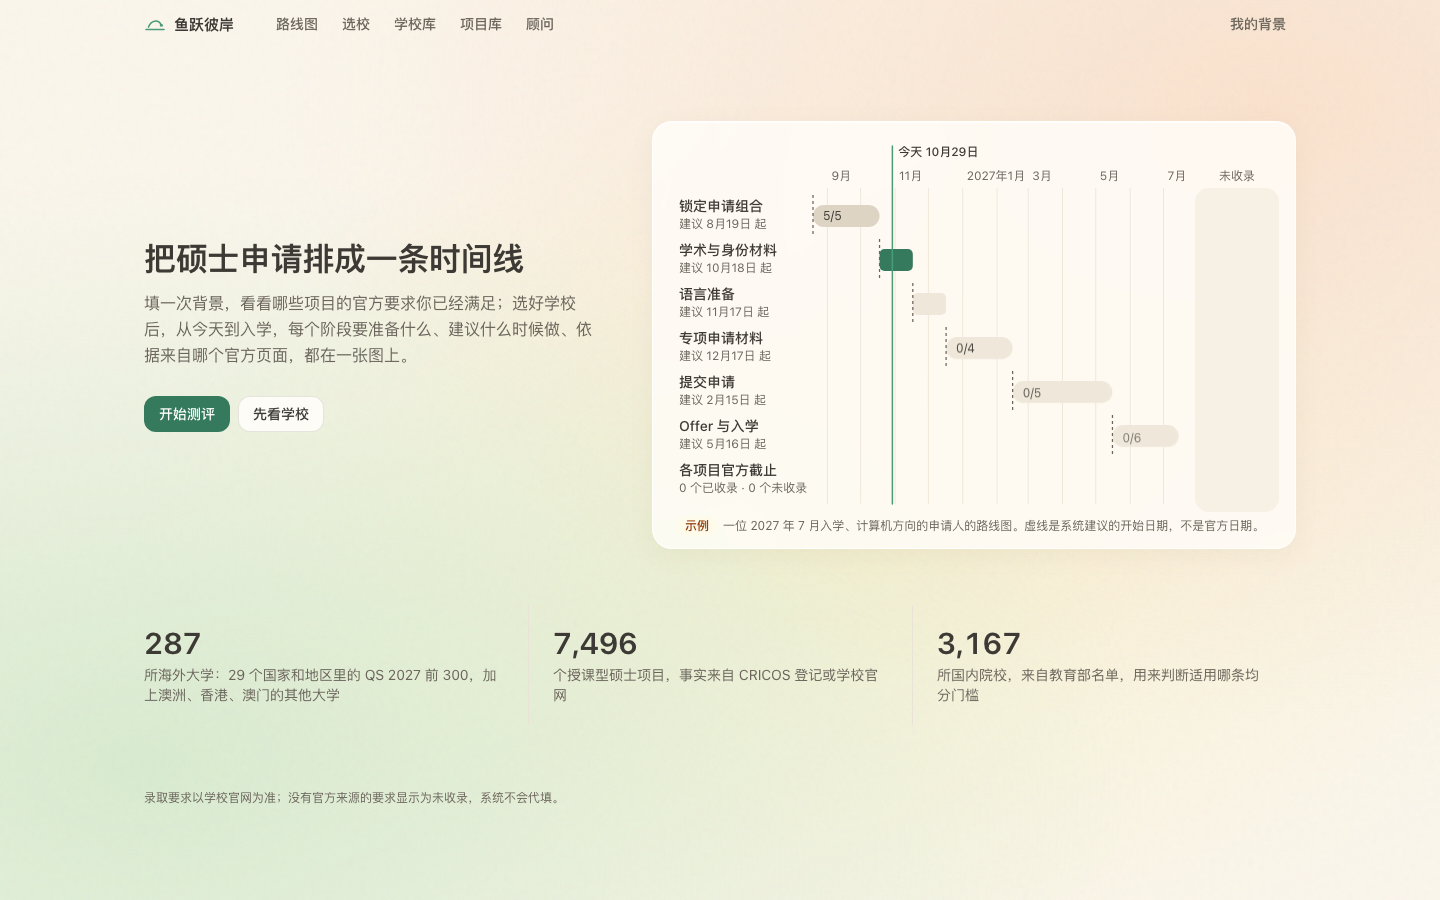
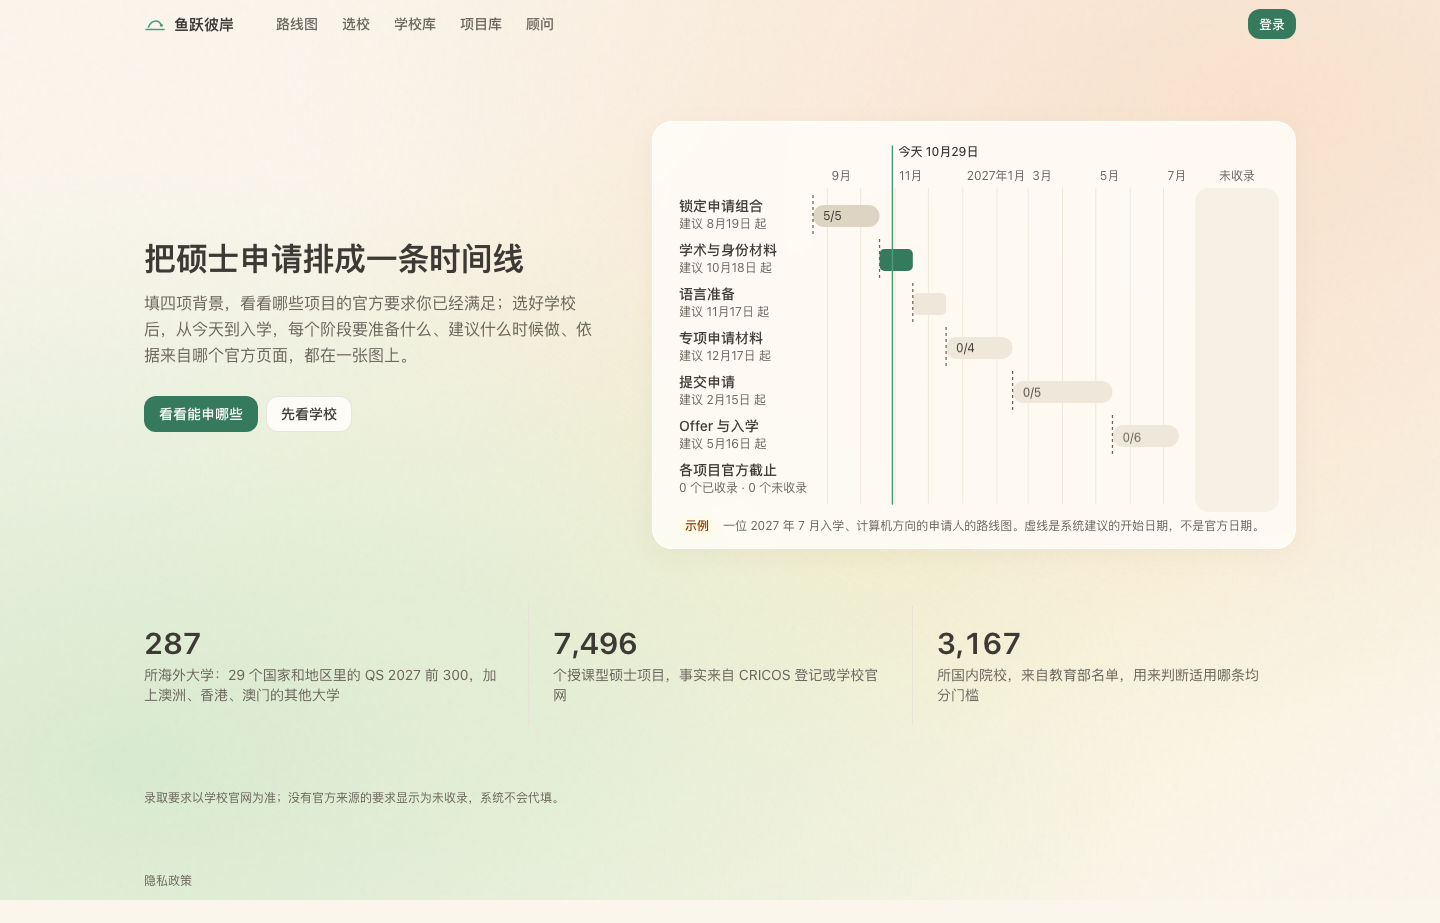
test(walkthrough): drive login mode end to end
- 未登录点发送 -> 登录 -> 信息页 -> 回到顾问并发出原句, with the request body checked
- Logout ends the session; 加入选校组合 while logged out resumes after login; skip shows 先补信息
- Account deletion through 我的; phone pass logs in from the header and lands on /tiers
- Logout does a full load so a prefetched redirect cannot send the visitor to /roadmap
- Center the dialog (the preflight reset its margin)

diff --git a/web/app/globals.css b/web/app/globals.css
@@ -367,7 +367,7 @@ tbody tr:hover { background: var(--hover); }
 .task input[type="checkbox"]:disabled { cursor: progress; }
 
 /* ---------- login dialog (openspec account-login D11) ---------- */
-.dialog { width: min(560px, calc(100vw - 32px)); max-height: calc(100vh - 32px); padding: 0; border: 1px solid var(--line); border-radius: var(--radius-card); background: var(--color-surface); color: var(--color-ink); box-shadow: 0 24px 64px rgba(61, 58, 53, 0.18); overflow: auto; }
+.dialog { margin: auto; width: min(560px, calc(100vw - 32px)); max-height: calc(100vh - 32px); padding: 0; border: 1px solid var(--line); border-radius: var(--radius-card); background: var(--color-surface); color: var(--color-ink); box-shadow: 0 24px 64px rgba(61, 58, 53, 0.18); overflow: auto; }
 .dialog::backdrop { background: rgba(61, 58, 53, 0.32); -webkit-backdrop-filter: blur(2px); backdrop-filter: blur(2px); }
 .dialog-head { display: flex; align-items: center; justify-content: space-between; gap: 16px; padding: 16px 24px; border-bottom: 1px solid var(--rule); }
 .dialog-head h2 { margin: 0; }

diff --git a/web/components/auth/AuthProvider.tsx b/web/components/auth/AuthProvider.tsx
@@ -100,10 +100,10 @@ export function AuthProvider({ children }: { children: ReactNode }) {
     await logout().catch(() => undefined);
     // An unsaved portfolio draft belongs to the account that made it, not to whoever logs in next.
     clearDraft(sessionStorage);
-    await refresh();
-    announce();
-    router.push("/");
-  }, [refresh, router]);
+    // A full load, not `router.push`: the client router may hold a prefetched `/` that the proxy answered
+    // with a redirect to /roadmap while the session was alive.
+    window.location.assign("/");
+  }, []);
 
   const value = useMemo<AuthContext>(
     () => ({

diff --git a/web/components/profile/ProfileForm.tsx b/web/components/profile/ProfileForm.tsx
@@ -379,6 +379,7 @@ export function ProfileForm({
 }
 
 function SchoolHint({ origin, name, listed }: { origin: Profile["schoolOrigin"]; name: string; listed: InstitutionHit | null }) {
+  if (origin === null) return <>先选学校在哪里。中国大陆的学校可以从教育部名单里选。</>;
   if (origin !== "国内") return <>海外或港澳台院校没有统一的均分门槛，分档会请你对照官网。</>;
   if (!name.trim()) return <>输入校名，从教育部名单里选。</>;
   if (!listed) return <>名单里没有这所学校：会按你填的名字保存，院校层次记为未知。</>;
